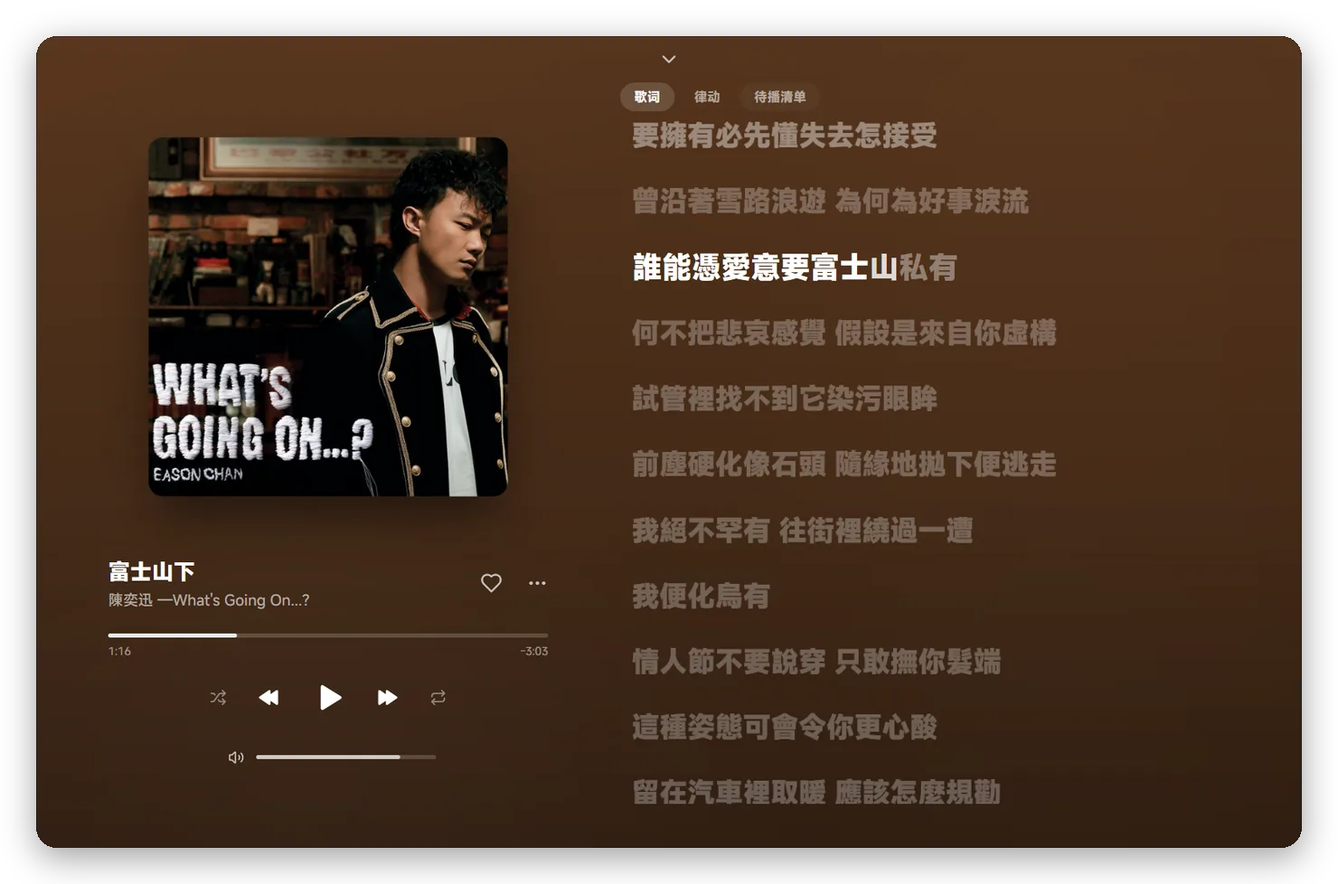
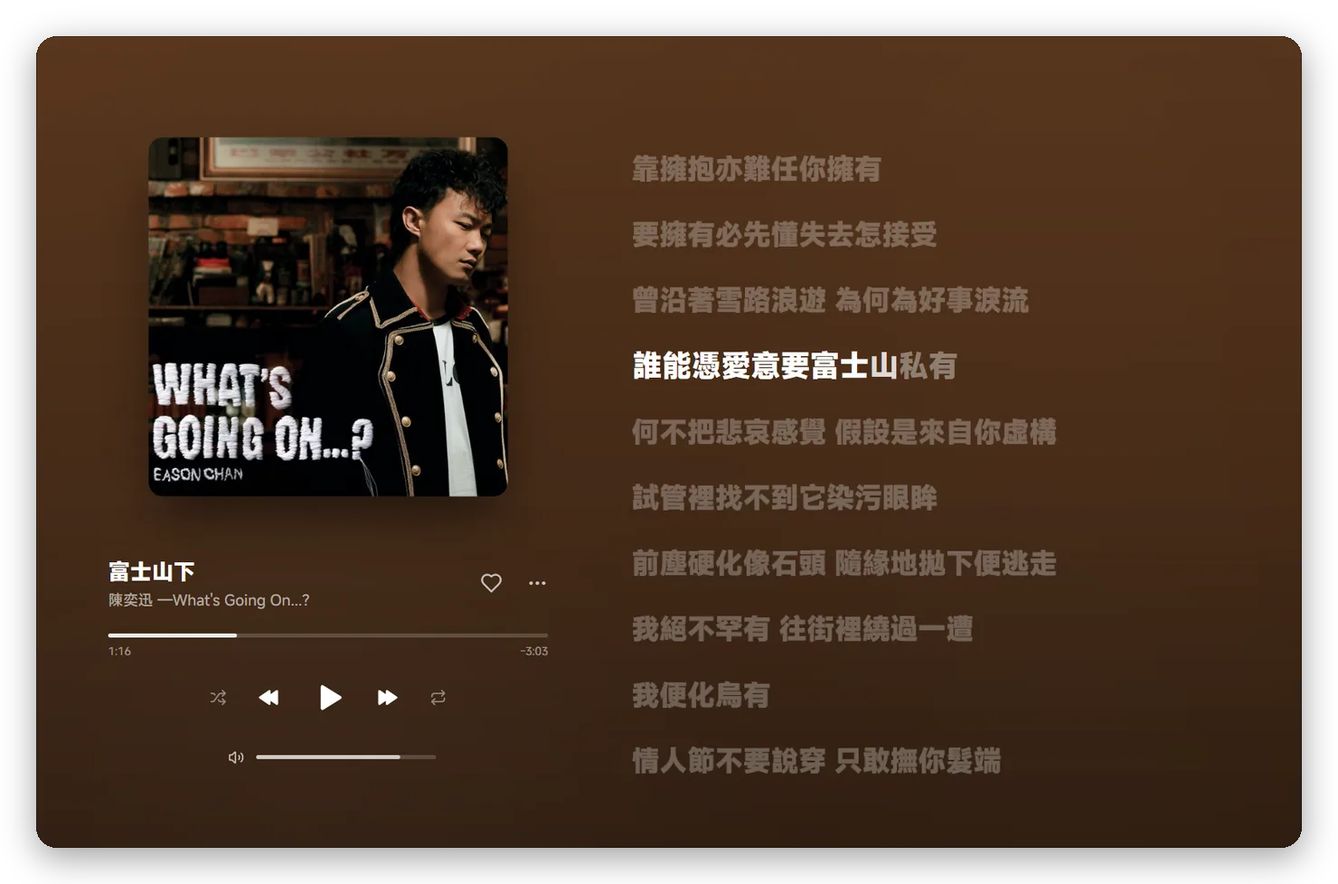
v0.2.0: README for downloading it, the screenshots again
- README: download from Releases, SmartScreen, upgrading; what the lyrics
  and Connect do for the listener, the details moved under how it works;
  data leaves only for Spotify, Gravatar and, for lyrics, NetEase and
  LRCLIB; macOS and Linux among what it cannot do.
- The screenshots again, of the home as Spotify's and the new name. The
  readme scene names the listener Alex in the home's titles too, which
  Spotify writes the account's name into; tools/readme_shots.py frames them.
- Version 0.2.0 (mygo.json, the syso): upstream's tags are v0.1.x.

Changed region(s): [[0.4662, 0.092, 0.8081, 0.9202]]

diff --git a/tools/readme_shots.py b/tools/readme_shots.py
@@ -1,0 +1,60 @@
+"""Turns the readme scene's PNGs into the README's WebP screenshots: rounded
+corners, a soft shadow, and a hero of the home page split light/dark along a
+diagonal. usage: readme_shots.py <shots dir> <out dir>"""
+import os, sys
+from PIL import Image, ImageDraw, ImageFilter
+
+src, out = sys.argv[1], sys.argv[2]
+os.makedirs(out, exist_ok=True)
+W = 1400          # width of the window in the image
+R = 22            # its corner radius
+PAD = 40          # room for the shadow
+
+
+def framed(im):
+    im = im.convert('RGB')
+    h = round(im.height * W / im.width)
+    im = im.resize((W, h), Image.LANCZOS)
+    mask = Image.new('L', (W, h), 0)
+    ImageDraw.Draw(mask).rounded_rectangle((0, 0, W - 1, h - 1), R, fill=255)
+    canvas = Image.new('RGBA', (W + 2 * PAD, h + 2 * PAD), (0, 0, 0, 0))
+    shadow = Image.new('L', canvas.size, 0)
+    ImageDraw.Draw(shadow).rounded_rectangle((PAD, PAD + 10, PAD + W, PAD + h + 10), R, fill=95)
+    shadow = shadow.filter(ImageFilter.GaussianBlur(18))
+    canvas.paste((0, 0, 0, 255), (0, 0), shadow)
+    win = im.convert('RGBA')
+    win.putalpha(mask)
+    canvas.alpha_composite(win, (PAD, PAD))
+    # A hairline edge, as a window has.
+    edge = Image.new('RGBA', (W, h), (0, 0, 0, 0))
+    ImageDraw.Draw(edge).rounded_rectangle((0, 0, W - 1, h - 1), R, outline=(0, 0, 0, 40), width=1)
+    canvas.alpha_composite(edge, (PAD, PAD))
+    return canvas
+
+
+def save(img, name):
+    path = os.path.join(out, name + '.webp')
+    img.save(path, 'WEBP', quality=82, method=6)
+    return os.path.getsize(path)
+
+
+def load(n):
+    return Image.open(os.path.join(src, n + '.png'))
+
+
+# The hero: light above the diagonal from top right to bottom left, dark
+# below it.
+light, dark = load('r1-home').convert('RGB'), load('r11-home-dark').convert('RGB')
+dark = dark.resize(light.size)
+cut = Image.new('L', light.size, 0)
+w, h = light.size
+ImageDraw.Draw(cut).polygon([(w * 0.62, 0), (w, 0), (w, h), (w * 0.38, h)], fill=255)
+hero = light.copy()
+hero.paste(dark, (0, 0), cut)
+total = save(framed(hero), 'hero')
+
+for name, shot in [('playing', 'r2-playing'), ('playing-dark', 'r12-playing-dark'), ('album', 'r3-album'),
+                   ('artist', 'r4-artist'), ('search', 'r5-search'), ('browse', 'r6-browse'),
+                   ('podcast', 'r7-podcast'), ('track', 'r8-track'), ('category', 'r9-category'), ('profile', 'r10-profile')]:
+    total += save(framed(load(shot)), name)
+print('total KB', total // 1024, sorted(os.listdir(out)))

diff --git a/internal/app/debug_readme.go b/internal/app/debug_readme.go
@@ -1,6 +1,7 @@
 package app
 
 import (
+	"strings"
 	"time"
 
 	"github.com/egoist/mygo"
@@ -27,8 +28,20 @@ func readmeScene(a *app, shot func(string, *mygo.Window), step func(time.Duratio
 		})
 		time.Sleep(time.Second)
 	}
+	// Spotify names the listener in some of the home's titles too ("根据 …
+	// 的喜好推荐"): Alex there as well, again before each page, the home
+	// being fetched again meanwhile.
+	var real string
+	mygo.RunOnMain(func() { real = a.profile.Nickname })
+	alias := func() {
+		for i := range a.homeSections {
+			if real != "" {
+				a.homeSections[i].Title = strings.ReplaceAll(a.homeSections[i].Title, real, "Alex")
+			}
+		}
+	}
 	page := func(name string, r route, wait time.Duration) {
-		step(0, func() { a.nowPlaying = false; a.open(r) })
+		step(0, func() { alias(); a.nowPlaying = false; a.open(r) })
 		time.Sleep(wait)
 		shot(name, a.win)
 	}

diff --git a/README.md b/README.md
@@ -8,6 +8,8 @@ Windows 上的 Spotify 播放器：Go 写的原生界面，免费账号也能整
 
 ![Windows 10/11](https://img.shields.io/badge/Windows-10%20%7C%2011-3a6ea5?style=flat-square) ![Go](https://img.shields.io/badge/Go-1.27-00add8?style=flat-square) ![MyGo](https://img.shields.io/badge/UI-MyGo-6a717c?style=flat-square) ![AGPL-3.0](https://img.shields.io/badge/license-AGPL--3.0-c2410c?style=flat-square)
 
+**[下载最新版](https://github.com/margbug01/Vinyl/releases/latest)** · 解压就能用，不用安装
+
 <img src="docs/screenshots/hero.webp" width="860" alt="首页，浅色和深色">
 
 </div>
@@ -17,17 +19,21 @@ Windows 上的 Spotify 播放器：Go 写的原生界面，免费账号也能整
 
 ## 为什么用它
 
-**像个桌面软件。** 界面是 [MyGo](https://github.com/egoist/mygo) 画的原生界面，不是套一层网页：侧栏、播放栏、全屏播放页、逐行滚动的歌词、律动舞台、系统媒体键、浅色和深色主题都有。只浏览时整个程序约 190MB，放歌时多一个约 60MB 的解密进程。
+**像个桌面软件。** 界面是 [MyGo](https://github.com/egoist/mygo) 画的原生界面，不是套一层网页：侧栏、播放栏、全屏播放页、逐行滚动的歌词、律动舞台、系统媒体键、浅色和深色主题都有。关窗口收进托盘接着放，托盘图标跟着任务栏的深浅色变。只浏览时整个程序约 190MB，放歌时多一个约 60MB 的解密进程。
 
 **免费账号整首放。** 登录走 Spotify 官方的登录页，MySpotify 只是借用网页播放器拿到的身份。音频由 WebView2 自带的 Widevine 模块解密，和你在浏览器里听是同一条路，128k AAC。
 
-**Spotify 有的大部分都在。** 首页推荐和每日推荐、排行榜、浏览全部分类、歌单和专辑、艺人页、单曲页（制作人员、播放次数、相似歌曲）、个人主页、播客、搜索（歌曲、艺人、专辑、歌单、播客）、喜欢、关注、收藏、自建歌单的增删改、下一首播放和待播清单、从歌曲或艺人开电台、最近播放。
+**Spotify 有的大部分都在。** 首页（照 Spotify 的分区和标题，音乐/播客筛选）、每日推荐、排行榜、浏览全部分类、歌单和专辑、艺人页、单曲页（制作人员、播放次数、相似歌曲）、个人主页、播客、搜索（歌曲、艺人、专辑、歌单、播客）、喜欢、关注、收藏、自建歌单的增删改、下一首播放和待播清单、从歌曲或艺人开电台、最近播放。网页或手机上新加的歌单会自己同步过来。
 
-**出错不会卡死。** 许可证过期就自动换身份重试；被 Spotify 限流时播放栏会写「Spotify 暂时限流，稍后重试」，按它要求的时间等完再从原位置接着放；网络或解码出错会先在页面里重试两次。Spotify 更新网页播放器、旧的查询失效时，MySpotify 会自己去线上脚本里找新的。
+**歌词基本都有，而且会滚。** Spotify 自己没有的，去网易云和 LRCLIB 找，带时间轴的优先，按歌名和时长核对版本，不乱配。当前这首的歌词到手后，顺手把下一首的也取好，切歌一开始就有。
+
+**手机和电脑能接力（实验性）。** 登录后电脑会出现在手机 Spotify 的设备列表里，叫「MySpotify · 电脑名」，点它就转到电脑上放，待播清单和手机上看到的一样。手机在放的时候，电脑这边也能看到、能遥控。
+
+**出错不会卡死。** 许可证过期就自动换身份重试；被 Spotify 限流时播放栏会写「Spotify 暂时限流，稍后重试」，按它要求的时间等完再从原位置接着放；网络或解码出错会先在页面里重试两次；一首歌放到最后卡住不动，也会接着放下一首。Spotify 更新网页播放器、旧的查询失效时，MySpotify 会自己去线上脚本里找新的。
 
 **听过的不用再下。** 放过的歌（加密分段，原样存下）留在本机，再放更快、不耗流量；上限可以在设置里选，也能一键清除。
 
-**数据只在本机。** 设置、播放进度、本机播放记录在 `%APPDATA%\Vinyl`，登录态在 `%LOCALAPPDATA%\Vinyl\WebView2`。除了 Spotify 和 Gravatar（取账号邮箱的头像），MySpotify 不连别的服务器，也没有统计和自动更新。
+**数据只在本机。** 设置、播放进度、本机播放记录在 `%APPDATA%\Vinyl`，登录态在 `%LOCALAPPDATA%\Vinyl\WebView2`（文件夹叫 Vinyl 是这个项目原来的名字，改名时没动，免得大家被登出）。除了 Spotify、Gravatar（取账号邮箱的头像），以及查歌词时的网易云和 LRCLIB（只收到歌名、歌手、专辑和时长），MySpotify 不连别的服务器，也没有统计和自动更新。
 
 ## 截图
 
@@ -64,11 +70,22 @@ Windows 上的 Spotify 播放器：Go 写的原生界面，免费账号也能整
 
 ## 开始使用
 
-1. 需要 Windows 10 或 11，以及 [WebView2 运行时](https://developer.microsoft.com/microsoft-edge/webview2/)（Windows 11 自带，Windows 10 大多也已经装了）。
-2. 按下面「从源码构建」编出 `MySpotify.exe`，双击打开。
-3. 点「登录 Spotify」，在弹出的 Spotify 官方登录页里登录。登录态会留在本机，下次打开不用再登。
+1. 到 [Releases](https://github.com/margbug01/Vinyl/releases/latest) 下载 `MySpotify-<版本>-windows-amd64.zip`，解压到任意文件夹，双击 `MySpotify.exe`。
+2. exe 没有代码签名，第一次打开 Windows 可能弹「Windows 已保护你的电脑」：点「更多信息 › 仍要运行」。不放心可以对一下 Release 里写的 sha256，或者按下面「从源码构建」自己编。
+3. 需要 Windows 10 或 11，以及 [WebView2 运行时](https://developer.microsoft.com/microsoft-edge/webview2/)（Windows 11 自带，Windows 10 大多也已经装了）。
+4. 点「登录 Spotify」，在弹出的 Spotify 官方登录页里登录。登录态会留在本机，下次打开不用再登。
+
+升级：右键托盘图标 › 退出 MySpotify，用新的 `MySpotify.exe` 覆盖旧的再打开。设置和登录都不在 exe 旁边，不会丢。
 
 快捷键：空格 播放/暂停，Ctrl+← / Ctrl+→ 上一首/下一首，Ctrl+D 喜欢正在放的歌，Ctrl+L 打开播放页，Ctrl+F 搜索，Ctrl+N 新建歌单，Ctrl+, 设置，鼠标侧键前进后退。
+
+## 手机和电脑接力（实验性）
+
+- **转到电脑放**：手机或网页 Spotify 的设备列表里选「MySpotify · 电脑名」。电脑的待播清单和手机上看到的是同一份，点其中一首会在原来的歌单里跳过去（这一步偶尔会被 Spotify 拒绝，见下）。
+- **在电脑上管手机**：底部音量旁的「设备」能看到同账号在线的手机、网页和本机。别的设备在放时，电脑显示它的歌和进度，播放/暂停、上一首/下一首、拖进度、音量、随机/循环都发给那台设备。
+- 同一时间只有一台设备出声。播放被转走、或者连接断了，电脑这边会停下，不会两边一起响。
+
+这一块还在实验：免费账号的注册和接力实测能用，长时间挂着、各种设备组合还没测全。偶尔会提示「Spotify 没有接受这个操作」，Spotify 给的原因会写进日志 `%APPDATA%\Vinyl\vinyl.log`（搜 `connect:`），遇到了欢迎把那一行贴到 issue 里。
 
 ## 风险和边界
 
@@ -84,11 +101,12 @@ Windows 上的 Spotify 播放器：Go 写的原生界面，免费账号也能整
 | 功能 | 为什么 |
 | --- | --- |
 | 256k / 无损音质 | 免费号申请 256k 的许可证会被拒（403）；无损只在官方桌面和手机 App 里 |
-| 逐字歌词 | 网页播放器的身份只拿得到逐行时间 |
+| 逐字歌词 | Spotify 只给网页播放器逐行时间；网易云的逐字歌词还没接 |
 | 离线下载 | 需要 Premium，而且要官方客户端 |
-| Spotify Connect（遥控别的设备）、Jam、DJ | 需要 Premium 或手机端 |
+| Jam、DJ | 需要 Premium 或手机端 |
 | 视频播客 | 只能放音频 |
 | 频谱 | 音频在解密模块里，拿不到；播放中的小音柱是按位置算的动画 |
+| macOS、Linux | 只做了 Windows：播放靠 WebView2 里的 Widevine，macOS 的 WebKit 不支持它 |
 | 好友动态、本地文件、Blend | 暂时没做 |
 
 ## 常见问题
@@ -106,9 +124,15 @@ Windows 上的 Spotify 播放器：Go 写的原生界面，免费账号也能整
 </details>
 
 <details>
+<summary>这首歌怎么没有歌词，或者歌词不会滚？</summary>
+
+Spotify、网易云、LRCLIB 三家都没有，或者只有不带时间轴的纯文本（静态显示，不会滚、不能点歌词跳进度）。翻唱、现场版要时长对得上才会用，宁可不显示也不套别的版本。歌词站忙的时候会隔 3 秒、10 秒各再查一次，查歌词时显示的是加载中的灰条。
+</details>
+
+<details>
 <summary>「每日推荐」是空的？</summary>
 
-新账号要听一阵，Spotify 才会生成 Daily Mix，在那之前这一页没有内容。首页照 Spotify 网页版排：筛选（全部/音乐/播客）、最近听过的快捷方块，下面是 Spotify 给的各个分区，标题也用它的。
+新账号要听一阵，Spotify 才会生成 Daily Mix，在那之前这一页没有内容。
 </details>
 
 <details>
@@ -135,26 +159,14 @@ MySpotify 用 Windows 的系统代理（设置 › 网络和 Internet › 代理
 关窗口只是收进托盘，音乐照常放，点托盘图标或者再打开一次 MySpotify 就回来。要退出：右键托盘图标 › 退出 MySpotify。
 </details>
 
-播放 WebView 只在首次实际加载歌曲时创建。暂停 30 秒后停止继续加载分段，连续闲置 5 分钟后保存播放位置并关闭播放窗口、本地服务和命令循环；再次播放时重新加载并恢复位置，可能需要重新申请许可证。短暂停与切歌不会反复重建播放环境。缓存管理独立于播放窗口，未播放时也能查看或清理缓存。Windows 的 WebView2 使用软件渲染，减少隐藏音频页面的 GPU 开销；临时登录页共用这个设置，原生 MyGo 主界面仍保留 GPU 加速。
-
-收藏列表会在切回主窗口时检查更新（5 秒内不重复请求），并每 30 秒后台检查一次。Spotify 网页或其他设备新增、删除、收藏的歌单以及关注的艺人会随列表更新；这是轮询而非实时推送，网络失败时保留上次列表，下次再试。这里只同步收藏列表，不会自动替换当前播放队列或重新加载已打开歌单里的歌曲。
-
-歌词按顺序找，有时间轴的先用：Spotify 自己的同步歌词 → [网易云音乐](https://music.163.com/)（非官方网页接口，不登录；按歌名和主艺人搜索，取同名、时长差不超过 2 秒里最接近的一首，它的时长和 Spotify 基本精确到毫秒；文字是简体）→ [LRCLIB](https://lrclib.net/) 精确查询（歌名、主艺人、专辑、时长都要对上）→ LRCLIB 搜索同名同歌手、时长差不超过 2 秒的带时间轴版本 → 都没有时间轴才显示纯文本（静态显示，不可点击跳转）。只发送歌名、主艺人、专辑和时长，不发送 Spotify 凭据。Connect 给的歌手名是外文拼写或缺失时，先换成 Spotify 的中文名再查。站点忙或限流（LRCLIB 503、网易云 405/406）时隔 3 秒、10 秒各再试一次；当前这首的歌词到手后预取下一首。不做模糊猜配，都没有或版本对不上仍显示暂无歌词，播客不查询。
-
-### Spotify Connect（实验性）
-
-登录后自动注册 `MySpotify · 电脑名`，底部音量旁的「设备」可选择同账号在线的手机、网页或本机。设备播放时，MySpotify 显示远端歌曲与进度，播放/暂停、上一首/下一首、拖动进度、音量及随机/循环操作发给活动设备；转回本机则由原有 Widevine 播放。播放转走或接收连接丢失时暂停本机，避免两个端争抢声音。这里是单活动设备的接力，不是多设备同时出声。
-
-协议结构参考 [Flutify](https://github.com/is-hp-is-mad/Flutify)：两个独立 Dealer 长连接，`connect-state` 负责观察/遥控，`track-playback` 注册本机并处理状态机。不使用 Premium Web Playback SDK。免费账号的双通道注册已实测通过；手机/网页与 MySpotify 的完整音频接力、长时间重连仍需实机验证，不能把注册成功等同于完整兼容。状态机只带当前和下一首，待播清单因此按 connect-state 的 `next_tracks` 显示，与手机一致（隐藏的循环副本不显示，只有 URI 的曲目用 `decorateContextTracks` 补全）；点其中一首发 `skip_next` 带该曲 uid，在原上下文里跳过去。本机插队和电台续队尚未接入 Connect；不支持的内容类型会暂停并提示，不会擅自越过。
-
-`NM_SHOTS=<已有目录> NM_SCENE=connect` 运行不播放音频的注册探针，结束后注销测试设备；使用不带 `-H windowsgui` 的构建查看输出。离线测试覆盖双连接注册/注销、推送解码、远端状态与控制路由、控制权释放、设备菜单以及本机音频停止。
-
 ## 怎么做到的
 
 - **登录**：一个平时隐藏的窗口打开 open.spotify.com，`internal/spotify/capture.js` 记下网页播放器自己拿到的 token 和 client-token；没登录就把这个窗口显示成 Spotify 的登录页。token 快过期时在后台重新加载一次。
-- **数据**：Pathfinder GraphQL 的持久化查询（哈希在 `internal/spotify/spotify.go` 的 `ops` 里）加 spclient（歌词、播放清单、歌单改动、电台、最近播放、个人主页）。公开 Web API 对这个身份一律 429，不用。哈希失效时（412「Invalid query hash」）`internal/spotify/ops.go` 重读主脚本和按需加载的分块脚本，换上新哈希重试一次，存到 `%APPDATA%\Vinyl\queries.json`，10 分钟内不重复读。
-- **播放**：另一个隐藏的 WebView 页面（`internal/player/web/player.html`）用 hls.js + Widevine 播加密的 MP4。清单、分段和许可证请求都经本机 127.0.0.1 的小服务转发，分段在这里顺手存进缓存，键是 CDN 路径加字节范围（CDN 的签名每天变，不进键）。播客的单集和歌曲走同一条路。
-- **出错**：许可证 401 换身份再要一次；429 按 Retry-After 等（没给就从 30 秒起翻倍），等完从原位置重来；403 停在这首。页面里的网络错误（`startLoad`，清单出错就重新 `loadSource`）和媒体错误（`recoverMediaError`）每首各重试 2 次，不行再跳下一首。
+- **数据**：Pathfinder GraphQL 的持久化查询（哈希在 `internal/spotify/spotify.go` 的 `ops` 里）加 spclient（歌词、播放清单、歌单改动、电台、最近播放、个人主页）。公开 Web API 对这个身份一律 429，不用。哈希失效时（412「Invalid query hash」）`internal/spotify/ops.go` 重读主脚本和按需加载的分块脚本，换上新哈希重试一次，存到 `%APPDATA%\Vinyl\queries.json`，10 分钟内不重复读。收藏列表在切回窗口时（5 秒内不重复）和每 30 秒检查一次，网络失败时保留上次的。
+- **播放**：另一个隐藏的 WebView 页面（`internal/player/web/player.html`）用 hls.js + Widevine 播加密的 MP4。清单、分段和许可证请求都经本机 127.0.0.1 的小服务转发，分段在这里顺手存进缓存，键是 CDN 路径加字节范围（CDN 的签名每天变，不进键）。播客的单集和歌曲走同一条路。这个页面第一次真放歌时才建，闲置 5 分钟就关掉，下次放再从原位置接上；它不用 GPU，主界面照常用 GPU。
+- **出错**：许可证 401 换身份再要一次；429 按 Retry-After 等（没给就从 30 秒起翻倍），等完从原位置重来；403 停在这首。页面里的网络错误（`startLoad`，清单出错就重新 `loadSource`）和媒体错误（`recoverMediaError`）每首各重试 2 次，不行再跳下一首。结束事件没送到时，音频停在最后 0.25 秒、尾部已缓冲完、连续约 4 秒不动，才算播完。
+- **歌词**：Spotify 的同步歌词 → 网易云（`/api/cloudsearch/pc` 按歌名和主艺人搜，取同名、时长差不超过 2 秒里最接近的一首，它的时长和 Spotify 基本精确到毫秒；文字是简体）→ LRCLIB 精确查询（歌名、主艺人、专辑、时长都要对上）→ LRCLIB 搜索同名同歌手、时长差 2 秒内带时间轴的那条 → 都没有时间轴才用纯文本。Connect 给的歌手名缺失或是外文拼写（Yitai Wang）时，先换成 Spotify 给的中文名（王以太）再查。站点忙或限流（LRCLIB 503、网易云 405/406）时隔 3 秒、10 秒各再试一次，播客不查。
+- **Connect**：协议结构参考 [Flutify](https://github.com/is-hp-is-mad/Flutify)，不用 Premium 才能用的 Web Playback SDK。两条 Dealer 长连接：`connect-state` 用一个隐藏的观察者设备看和遥控，`track-playback` 把本机注册成能放歌的设备并处理状态机。状态机只带当前和下一首，所以待播清单按 connect-state 的 `next_tracks` 显示（隐藏的循环副本不显示，只有 URI 的曲目用 `decorateContextTracks` 补上名字）；点其中一首发 `skip_next` 带那首的 uid。本机插队和电台续队还没接进 Connect。
 - **头像**：账号的头像依次用 Spotify 上设的、账号邮箱在 Gravatar 上的、名字首字母（底色用 Spotify 给的颜色）。邮箱是带着 WebView 的 cookie 问 `www.spotify.com/api/account-settings/v1/profile` 拿的。
 
 ## 从源码构建
@@ -166,10 +178,10 @@ go test ./...
 CGO_ENABLED=0 go build -trimpath -ldflags="-H windowsgui -s -w" -o outputs/MySpotify.exe .
 ```
 
-图标都由 `tools/icons.py` 画（Windows，要 Pillow，用 Edge 无头模式渲染 SVG）：`resources/icon.svg`/`icon.png` 是程序图标，`icon-small.svg` 是 16–24 像素用的简化版（两道纹、更粗），`icon.ico` 把两者按尺寸合在一起；`internal/app/tray.png` 是托盘和 Mac 菜单栏的模板图标（只有黑色和透明，Windows 深色任务栏上自动画成白色，macOS 自己染色）；`AppIcon.icon` 是 Mac Dock 用的 Icon Composer 文档（浅色/深色两种底，`mygo.json` 的 `macos.icon`，要在装了 Xcode 26 的 Mac 上 `mygo build` 才会编进去，否则退回 `icon.png` 生成的 `.icns`）。改了图标先跑 `python tools/icons.py`，再重新生成图标、版本信息和 manifest 所在的 `rsrc_windows_amd64.syso`：
+图标都由 `tools/icons.py` 画（Windows，要 Pillow，用 Edge 无头模式渲染 SVG）：`resources/icon.svg`/`icon.png` 是程序图标，`icon-small.svg` 是 16–24 像素用的简化版（两道纹、更粗），`icon.ico` 把两者按尺寸合在一起；`internal/app/tray.png` 是托盘和 Mac 菜单栏的模板图标（只有黑色和透明，Windows 深色任务栏上自动画成白色，macOS 自己染色）；`AppIcon.icon` 是 Mac Dock 用的 Icon Composer 文档（浅色/深色两种底，`mygo.json` 的 `macos.icon`，要在装了 Xcode 26 的 Mac 上 `mygo build` 才会编进去，否则退回 `icon.png` 生成的 `.icns`）。改了图标或版本号，先跑 `python tools/icons.py`，再重新生成图标、版本信息和 manifest 所在的 `rsrc_windows_amd64.syso`（版本号同时改 `mygo.json`）：
 
 ```
-go run github.com/tc-hib/go-winres@v0.3.3 simply --icon resources/icon.ico --manifest gui --product-name MySpotify --file-description MySpotify --product-version 0.1.0 --file-version 0.1.0 --original-filename MySpotify.exe --arch amd64 --out rsrc
+go run github.com/tc-hib/go-winres@v0.3.3 simply --icon resources/icon.ico --manifest gui --product-name MySpotify --file-description MySpotify --product-version 0.2.0 --file-version 0.2.0 --original-filename MySpotify.exe --arch amd64 --out rsrc
 ```
 
 日志（含崩溃时的堆栈）写在 `%APPDATA%\Vinyl\vinyl.log`，超过 1MB 挪成 `vinyl.log.1` 重新开始。
@@ -179,18 +191,23 @@ go run github.com/tc-hib/go-winres@v0.3.3 simply --icon resources/icon.ico --man
 - `NM_SHOTS=<目录>`：走一遍首页、排行榜、歌单、播放页、待播清单、搜索，每步截图（静音）。
 - `NM_SHOTS=<目录> NM_SCENE=once`：静音放排行榜里的一首歌 10 秒（`NM_PLAY=<歌单/专辑/播客 URI>` 换成放那张列表的第一首），只要一次许可证，打印播放状态和缓存大小。验证真播放先用它。
 - `NM_SHOTS=<目录> NM_SCENE=play`：完整验证播放（起播、拖到结尾接下一首、暂停继续、下一首），要好几次许可证，别连着跑。
-- `NM_SHOTS=<目录> NM_SCENE=readme`：用真数据截 README 里的这些图，账号名显示成 Alex，不播放。
+- `NM_SHOTS=<目录> NM_SCENE=readme`：用真数据截 README 里的这些图，账号名显示成 Alex（首页标题里的也换），不播放；再跑 `python tools/readme_shots.py <目录> docs/screenshots` 出圆角投影的 WebP。这个场景退出时会写设置和播放会话，想不碰自己的就把 `APPDATA` 指到别的目录再跑。
+- `NM_SHOTS=<目录> NM_SCENE=connect`：Connect 注册探针，不放音频，结束后注销测试设备。
 - `NM_SHOTS=<目录> NM_SCENE=identity`：把当前登录身份导出成 `identity.json`，给下面的 LIVE 测试用。
 - `LIVE=<identity.json> go test -run TestLive ./internal/spotify`：用真身份把每个接口打一遍，只读。
 - `LIVE=<identity.json> LIVE_EDIT=1 go test -run TestLiveEdit ./internal/spotify`：在这个账号上建歌单、加歌、删歌、改名、删歌单，收藏专辑/歌单/播客、点喜欢、关注艺人，每步读回来核对，最后全部恢复原样。会真改账号。
 - `LIVE=1 go test -run TestLiveScriptHashes ./internal/spotify`：检查现在用的查询哈希是否都还能在线上脚本里找到。
+
+不带 `-H windowsgui` 编出来的版本能在控制台看到这些场景的输出。
 
 ## 致谢
 
 - 界面来自 [egoist/mygo-cloudmusic](https://github.com/egoist/mygo-cloudmusic)（一个网易云音乐客户端），数据和播放换成了 Spotify。仓库保留了上游历史，可以 `git merge upstream/main` 拉作者的界面更新。
 - [MyGo](https://github.com/egoist/mygo)：Go 的原生界面框架。
 - [hls.js](https://github.com/video-dev/hls.js)（Apache-2.0），在 `internal/player/web/hls.min.js`。
+- [Flutify](https://github.com/is-hp-is-mad/Flutify)：Connect 协议结构的参考。
+- 歌词来自 [LRCLIB](https://lrclib.net/) 和网易云音乐。
 
 ## 许可证
 
-[AGPL-3.0](LICENSE)，随上游。图标是 MySpotify 自己画的（`tools/icons.py`，「转动的唱片」：一张黑胶，三道纹路接住光）。Spotify 是 Spotify AB 的商标，截图里的封面和照片版权归各自的权利人。
+[AGPL-3.0](LICENSE)，随上游。Release 压缩包里的 `licenses/` 是编进 exe 的第三方代码的许可证。图标是 MySpotify 自己画的（`tools/icons.py`，「转动的唱片」：一张黑胶，三道纹路接住光）。Spotify 是 Spotify AB 的商标，名字里的 Spotify 只是说明它播放的是什么，截图里的封面和照片版权归各自的权利人。
